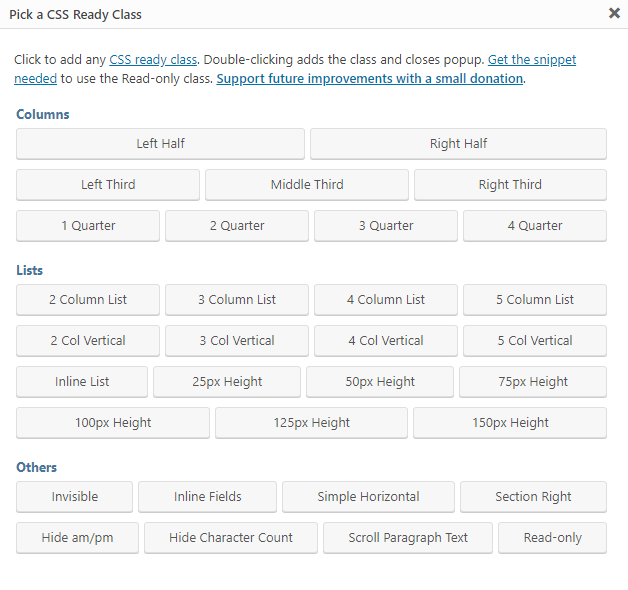
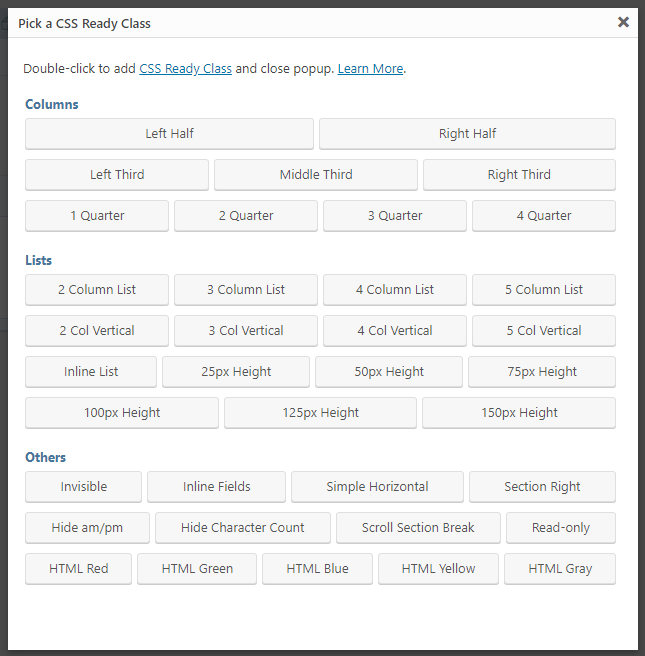
init 2.6.0

Changed region(s): [[0.0, 0.0, 1.0, 1.0], [0.2723, 0.7322, 0.3933, 0.7627]]

diff --git a/css-ready-classes.php b/css-ready-classes.php
@@ -9,7 +9,21 @@ License: GPLv3 or later
 License URI: http://www.gnu.org/licenses/gpl-3.0.html
 Requires at least: 5.0
 Tested up to: 5.5
-Version: 2.5.0
+Version: 2.6.0
+
+NOTES FOR v2.7 Release:
+
+Confirmation Classes
+  New Form submission Confirmation CSS Ready Classes. Add a class to the 'CSS Class Name' input under 'Form Layout' within the 'Form Settings' page. This will turn your form submission confirmation message into a colored banner. Works with 'text' type confirmation messages, NOT page or redirect confirmations.
+gf_confirmation_simple_yellow
+  This turns the confirmation message into a banner with a yellow background.
+gf_confirmation_simple_gray
+  This turns the confirmation message into a banner with a gray background.
+gf_confirmation_yellow_gradient
+  This turns the confirmation message into a banner with a yellow gradient background.
+gf_confirmation_green_gradient
+  This turns the confirmation message into a banner with a green gradient background.
+
 -------------------------------------------------- */
 
 if( ! defined( 'ABSPATH' ) )
@@ -110,7 +124,7 @@ a.cssr_link:active {
 }
 </style>
 <div id='css_ready_modal'>
-  <p>Click to add any <a href='https://docs.gravityforms.com/css-ready-classes/' target='_blank' title='Opens New Window.'>CSS ready class</a>. Double-clicking adds the class and closes popup. <a href='https://endurtech.com/how-to-disable-or-hide-gravity-forms-tooltips-in-backend/' target='_blank' title='Opens New Window.'>Get the snippet needed</a> to use the Read-only class. <a href='https://endurtech.com/give-thanks/' target='_blank' title='Opens New Window'><strong>Support future improvements with a small donation</strong></a>.</p>
+  <p>Double-click to add <a href='https://docs.gravityforms.com/css-ready-classes/' target='_blank' title='Opens New Window.'>CSS Ready Class</a> and close popup. <a href='https://endurtech.com/css-ready-classes-wordpress-plugin/' target='_blank' title='Opens New Window.'>Learn More</a>.</p>
   <ul class='cssr_ul'>
     <li>
       <span>Columns</span>
@@ -144,7 +158,6 @@ a.cssr_link:active {
         <a class='cssr_link' href='#' rel='gf_list_4col_vertical' title='Equally-spaced 4 col vertical multi-choice/checkboxs. Any form label.'>4 Col Vertical</a>
         <a class='cssr_link' href='#' rel='gf_list_5col_vertical' title='Equally-spaced 5 col vertical multi-choice/checkboxs. Any form label.'>5 Col Vertical</a>
       </div>
-
       <div>
         <a class='cssr_link' href='#' rel='gf_list_inline' title='Inline horizontal multi-choice/checkboxs, not = spaced. Any form label.'>Inline List</a>
         <a class='cssr_link' href='#' rel='gf_list_height_25' title='25px height multi-choice/checkboxs. Any form label.'>25px Height</a>
@@ -170,6 +183,13 @@ a.cssr_link:active {
         <a class='cssr_link' href='#' rel='gf_hide_charleft' title='Hides Maximum Characters Left on paragraph/text fields. Any form label.'>Hide Character Count</a>
         <a class='cssr_link' href='#' rel='gf_scroll_text' title='Converts Section Break into fixed height box. Shows scroll bar if overflow. Only works on Section Breaks. Any form label.'>Scroll Section Break</a>
         <a class='cssr_link' href='#' rel='gf_readonly' title='Creates read-only field with use of additional script. Any form label.'>Read-only</a>
+      </div>
+      <div>
+        <a class='cssr_link' href='#' rel='gf_alert_red' title='Turns HTML field and contents into RED banner.'>HTML Red</a>
+        <a class='cssr_link' href='#' rel='gf_alert_green' title='Turns HTML field and contents into GREEN banner.'>HTML Green</a>
+        <a class='cssr_link' href='#' rel='gf_alert_blue' title='Turns HTML field and contents into BLUE banner.'>HTML Blue</a>
+        <a class='cssr_link' href='#' rel='gf_alert_yellow' title='Turns HTML field and contents into YELLOW banner.'>HTML Yellow</a>
+        <a class='cssr_link' href='#' rel='gf_alert_gray' title='Turns HTML field and contents into GRAY banner.'>HTML Gray</a>
       </div>
     </li>
   </ul>
@@ -251,7 +271,7 @@ jQuery( document ).bind( "gform_load_field_settings", function( event, field, fo
 {
   if( jQuery( "#css_ready_selector" ).length == 0 )
   {
-    var $select_link = jQuery( "<a id='css_ready_selector' class='thickbox' href='#TB_inline?width=500&height=550&inlineId=css_ready_modal' title='Pick a CSS Ready Class'>CSS</a>" );
+    var $select_link = jQuery( "<a id='css_ready_selector' class='thickbox' href='#TB_inline?width=500&height=600&inlineId=css_ready_modal' title='Pick a CSS Ready Class'>CSS</a>" );
     var $modal = jQuery( "<?php echo preg_replace( '/\s*[\r\n\t]+\s*/', '', $modal_html ); ?>" ).hide();
     jQuery( ".css_class_setting" ).append( $select_link ).append( $modal );
     $select_link.click( function( e )

diff --git a/README.md b/README.md
@@ -5,7 +5,7 @@ Donations: https://endurtech.com/give-thanks/
 Tags: css ready classes,ready classes,css classes,gravityforms,gravity forms  
 Requires WP: 5.0  
 Tested to: 5.5  
-Stable tag: 2.5.0  
+Stable tag: 2.6.0  
 License: GPLv3 or later  
 
 ## Description
@@ -38,6 +38,10 @@ Support my work and future improvements to this plugin by [sending me a tip usin
 
 ## Changelog
 
+*.2.7.0 (coming soon)
+  * Added new Confirmation Classes. Add a class to the 'CSS Class Name' input under 'Form Layout' within the 'Form Settings' page. Turns confirmation message into colored banner. Works with 'text' type confirmation messages, NOT page or redirect confirmations.
+* 2.6.0
+  * Added new HTML field CSS Ready Classes. This turns an HTML field and its contents into a colored banner message.
 * 2.5.0
   * All backend tooltips within Gravity Forms are now hidden by default.
   * Added new Read-only CSS class. NOTE: Requires an embedded JavaScript snippet within a hidden HTML form field. [Get the needed JavaScript snippet](https://endurtech.com/how-to-disable-or-hide-gravity-forms-tooltips-in-backend/).
